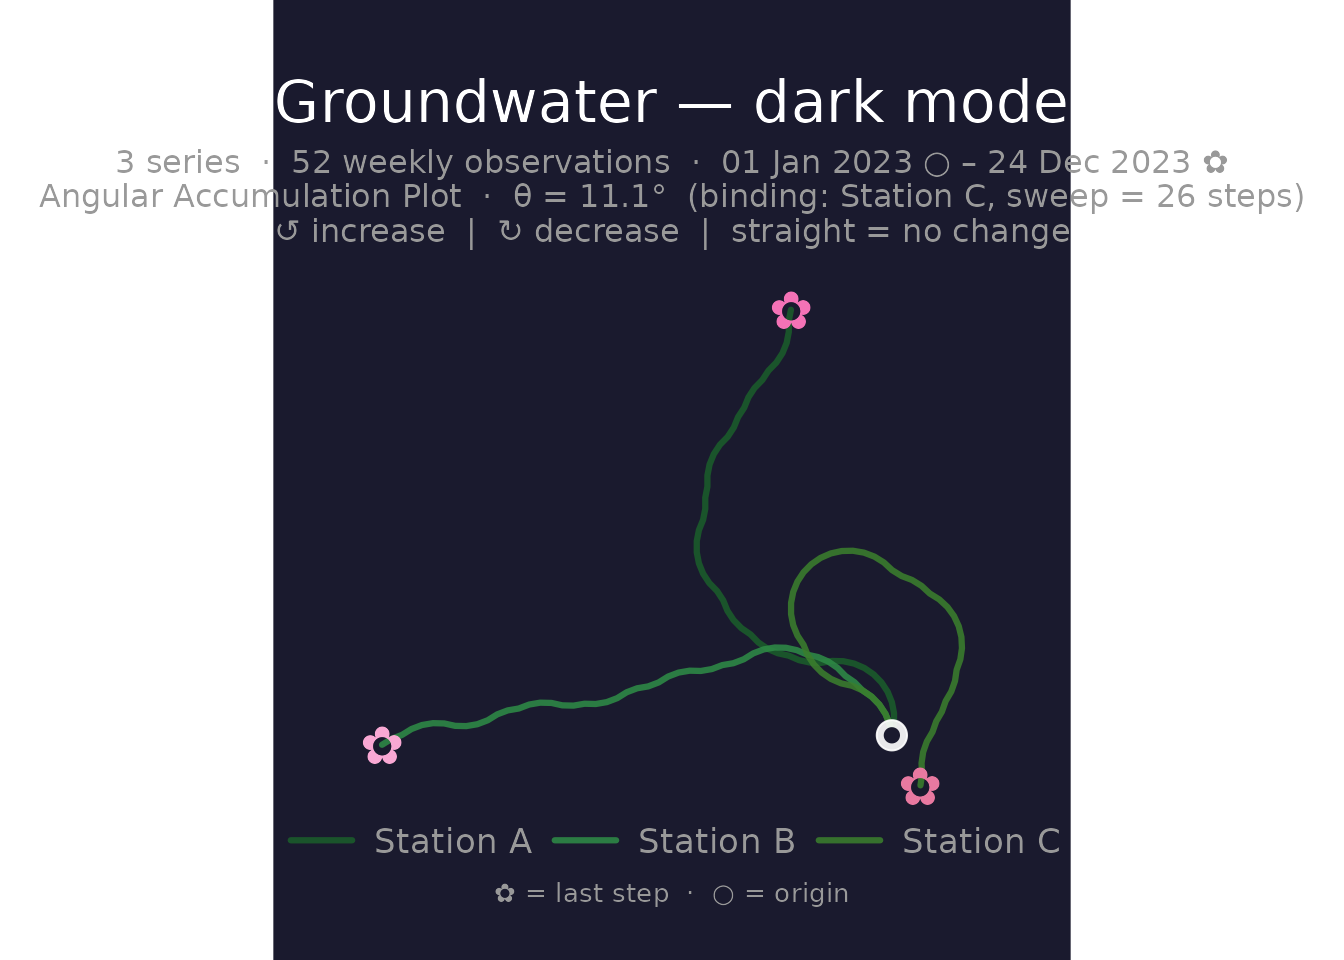
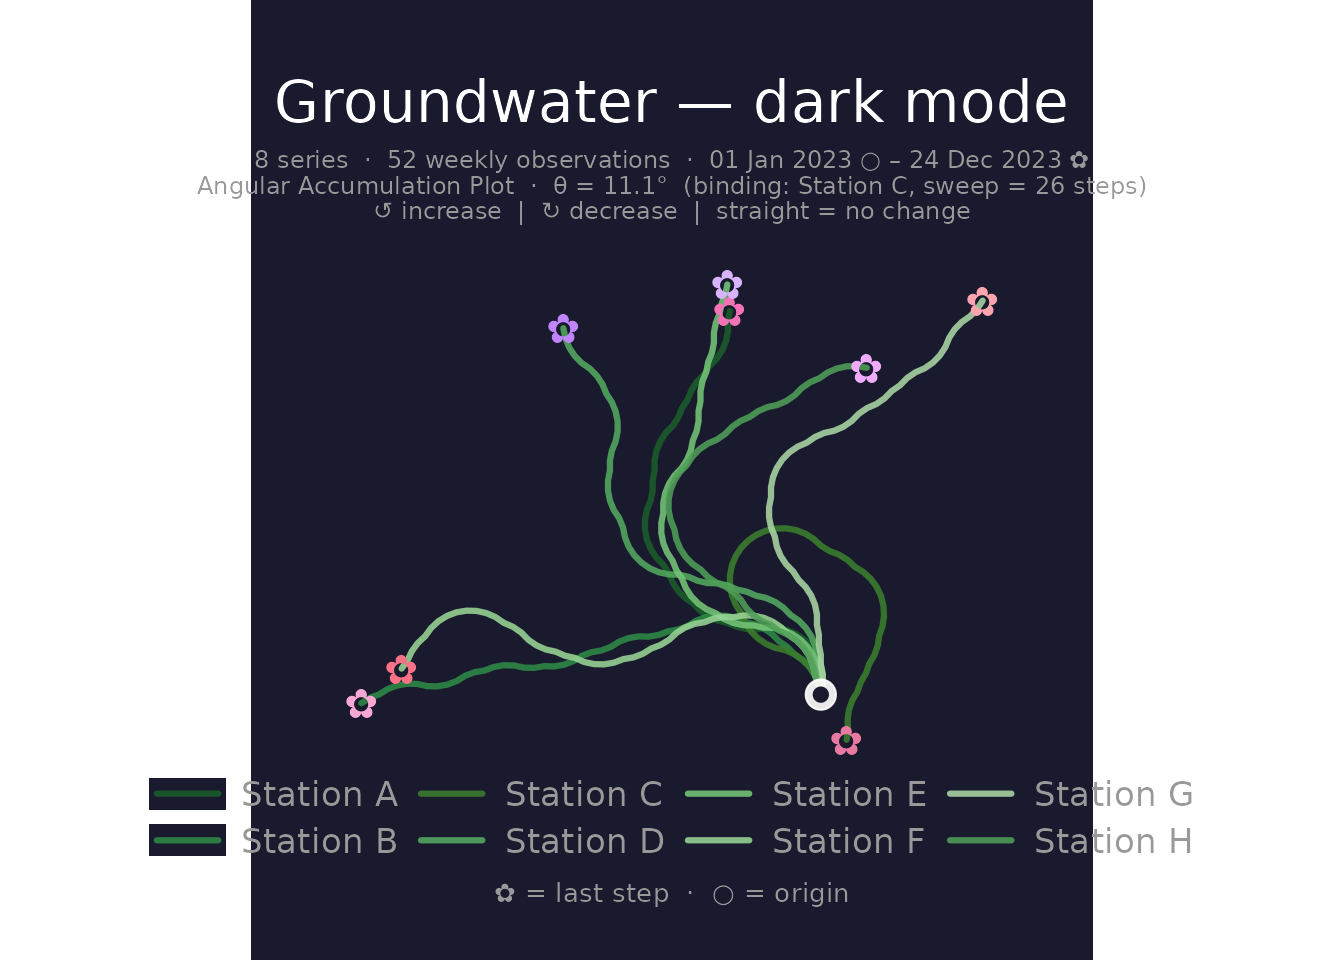
Deploying to gh-pages from @ MxNl/bouquets@2229dc61eb4a704fa66caaeef70edfd98b09cd7e 🚀

diff --git a/articles/bouquets.html b/articles/bouquets.html
@@ -88,13 +88,19 @@ values. The technique is structurally related to DNA walk visualisations
 <span><span class="va">season</span> <span class="op">&lt;-</span> <span class="fu"><a href="https://rdrr.io/r/base/Trig.html" class="external-link">sin</a></span><span class="op">(</span><span class="fu"><a href="https://rdrr.io/r/base/seq.html" class="external-link">seq</a></span><span class="op">(</span><span class="fl">0</span>, <span class="fl">2</span> <span class="op">*</span> <span class="va">pi</span>, length.out <span class="op">=</span> <span class="va">n</span><span class="op">)</span><span class="op">)</span></span>
 <span></span>
 <span><span class="va">gw_long</span> <span class="op">&lt;-</span> <span class="fu">tibble</span><span class="fu">::</span><span class="fu"><a href="https://tibble.tidyverse.org/reference/tibble.html" class="external-link">tibble</a></span><span class="op">(</span></span>
-<span>  week    <span class="op">=</span> <span class="fu"><a href="https://rdrr.io/r/base/rep.html" class="external-link">rep</a></span><span class="op">(</span><span class="va">weeks</span>, <span class="fl">3L</span><span class="op">)</span>,</span>
-<span>  station <span class="op">=</span> <span class="fu"><a href="https://rdrr.io/r/base/rep.html" class="external-link">rep</a></span><span class="op">(</span><span class="fu"><a href="https://rdrr.io/r/base/c.html" class="external-link">c</a></span><span class="op">(</span><span class="st">"Station A"</span>, <span class="st">"Station B"</span>, <span class="st">"Station C"</span><span class="op">)</span>, each <span class="op">=</span> <span class="va">n</span><span class="op">)</span>,</span>
-<span>  region  <span class="op">=</span> <span class="fu"><a href="https://rdrr.io/r/base/rep.html" class="external-link">rep</a></span><span class="op">(</span><span class="fu"><a href="https://rdrr.io/r/base/c.html" class="external-link">c</a></span><span class="op">(</span><span class="st">"North"</span>, <span class="st">"North"</span>, <span class="st">"South"</span><span class="op">)</span>, each <span class="op">=</span> <span class="va">n</span><span class="op">)</span>,</span>
+<span>  week    <span class="op">=</span> <span class="fu"><a href="https://rdrr.io/r/base/rep.html" class="external-link">rep</a></span><span class="op">(</span><span class="va">weeks</span>, <span class="fl">8L</span><span class="op">)</span>,</span>
+<span>  station <span class="op">=</span> <span class="fu"><a href="https://rdrr.io/r/base/rep.html" class="external-link">rep</a></span><span class="op">(</span><span class="fu"><a href="https://rdrr.io/r/base/paste.html" class="external-link">paste0</a></span><span class="op">(</span><span class="st">"Station "</span>, <span class="va">LETTERS</span><span class="op">[</span><span class="fl">1</span><span class="op">:</span><span class="fl">8</span><span class="op">]</span><span class="op">)</span>, each <span class="op">=</span> <span class="va">n</span><span class="op">)</span>,</span>
+<span>  region  <span class="op">=</span> <span class="fu"><a href="https://rdrr.io/r/base/rep.html" class="external-link">rep</a></span><span class="op">(</span><span class="fu"><a href="https://rdrr.io/r/base/c.html" class="external-link">c</a></span><span class="op">(</span><span class="st">"North"</span>, <span class="st">"North"</span>, <span class="st">"North"</span>, <span class="st">"North"</span>,</span>
+<span>                  <span class="st">"South"</span>, <span class="st">"South"</span>, <span class="st">"South"</span>, <span class="st">"South"</span><span class="op">)</span>, each <span class="op">=</span> <span class="va">n</span><span class="op">)</span>,</span>
 <span>  level_m <span class="op">=</span> <span class="fu"><a href="https://rdrr.io/r/base/c.html" class="external-link">c</a></span><span class="op">(</span></span>
 <span>    <span class="fl">8.5</span> <span class="op">+</span> <span class="fl">0.8</span> <span class="op">*</span> <span class="va">season</span> <span class="op">+</span> <span class="fu"><a href="https://rdrr.io/r/base/cumsum.html" class="external-link">cumsum</a></span><span class="op">(</span><span class="fu"><a href="https://rdrr.io/r/stats/Normal.html" class="external-link">rnorm</a></span><span class="op">(</span><span class="va">n</span>,  <span class="fl">0.00</span>, <span class="fl">0.18</span><span class="op">)</span><span class="op">)</span>,</span>
 <span>    <span class="fl">7.2</span> <span class="op">+</span> <span class="fl">0.5</span> <span class="op">*</span> <span class="va">season</span> <span class="op">+</span> <span class="fu"><a href="https://rdrr.io/r/base/cumsum.html" class="external-link">cumsum</a></span><span class="op">(</span><span class="fu"><a href="https://rdrr.io/r/stats/Normal.html" class="external-link">rnorm</a></span><span class="op">(</span><span class="va">n</span>,  <span class="fl">0.02</span>, <span class="fl">0.22</span><span class="op">)</span><span class="op">)</span>,</span>
-<span>    <span class="fl">9.1</span> <span class="op">+</span> <span class="fl">1.1</span> <span class="op">*</span> <span class="va">season</span> <span class="op">+</span> <span class="fu"><a href="https://rdrr.io/r/base/cumsum.html" class="external-link">cumsum</a></span><span class="op">(</span><span class="fu"><a href="https://rdrr.io/r/stats/Normal.html" class="external-link">rnorm</a></span><span class="op">(</span><span class="va">n</span>, <span class="op">-</span><span class="fl">0.01</span>, <span class="fl">0.15</span><span class="op">)</span><span class="op">)</span></span>
+<span>    <span class="fl">9.1</span> <span class="op">+</span> <span class="fl">1.1</span> <span class="op">*</span> <span class="va">season</span> <span class="op">+</span> <span class="fu"><a href="https://rdrr.io/r/base/cumsum.html" class="external-link">cumsum</a></span><span class="op">(</span><span class="fu"><a href="https://rdrr.io/r/stats/Normal.html" class="external-link">rnorm</a></span><span class="op">(</span><span class="va">n</span>, <span class="op">-</span><span class="fl">0.01</span>, <span class="fl">0.15</span><span class="op">)</span><span class="op">)</span>,</span>
+<span>    <span class="fl">6.8</span> <span class="op">+</span> <span class="fl">0.9</span> <span class="op">*</span> <span class="va">season</span> <span class="op">+</span> <span class="fu"><a href="https://rdrr.io/r/base/cumsum.html" class="external-link">cumsum</a></span><span class="op">(</span><span class="fu"><a href="https://rdrr.io/r/stats/Normal.html" class="external-link">rnorm</a></span><span class="op">(</span><span class="va">n</span>,  <span class="fl">0.01</span>, <span class="fl">0.20</span><span class="op">)</span><span class="op">)</span>,</span>
+<span>    <span class="fl">5.4</span> <span class="op">+</span> <span class="fl">1.2</span> <span class="op">*</span> <span class="va">season</span> <span class="op">+</span> <span class="fu"><a href="https://rdrr.io/r/base/cumsum.html" class="external-link">cumsum</a></span><span class="op">(</span><span class="fu"><a href="https://rdrr.io/r/stats/Normal.html" class="external-link">rnorm</a></span><span class="op">(</span><span class="va">n</span>, <span class="op">-</span><span class="fl">0.02</span>, <span class="fl">0.17</span><span class="op">)</span><span class="op">)</span>,</span>
+<span>    <span class="fl">7.7</span> <span class="op">+</span> <span class="fl">0.6</span> <span class="op">*</span> <span class="va">season</span> <span class="op">+</span> <span class="fu"><a href="https://rdrr.io/r/base/cumsum.html" class="external-link">cumsum</a></span><span class="op">(</span><span class="fu"><a href="https://rdrr.io/r/stats/Normal.html" class="external-link">rnorm</a></span><span class="op">(</span><span class="va">n</span>,  <span class="fl">0.00</span>, <span class="fl">0.21</span><span class="op">)</span><span class="op">)</span>,</span>
+<span>    <span class="fl">8.9</span> <span class="op">+</span> <span class="fl">0.7</span> <span class="op">*</span> <span class="va">season</span> <span class="op">+</span> <span class="fu"><a href="https://rdrr.io/r/base/cumsum.html" class="external-link">cumsum</a></span><span class="op">(</span><span class="fu"><a href="https://rdrr.io/r/stats/Normal.html" class="external-link">rnorm</a></span><span class="op">(</span><span class="va">n</span>,  <span class="fl">0.01</span>, <span class="fl">0.19</span><span class="op">)</span><span class="op">)</span>,</span>
+<span>    <span class="fl">6.2</span> <span class="op">+</span> <span class="fl">1.0</span> <span class="op">*</span> <span class="va">season</span> <span class="op">+</span> <span class="fu"><a href="https://rdrr.io/r/base/cumsum.html" class="external-link">cumsum</a></span><span class="op">(</span><span class="fu"><a href="https://rdrr.io/r/stats/Normal.html" class="external-link">rnorm</a></span><span class="op">(</span><span class="va">n</span>, <span class="op">-</span><span class="fl">0.01</span>, <span class="fl">0.16</span><span class="op">)</span><span class="op">)</span></span>
 <span>  <span class="op">)</span></span>
 <span><span class="op">)</span></span>
 <span></span>
@@ -156,7 +162,8 @@ palettes:</p>
 <span>  value_col     <span class="op">=</span> <span class="va">level_m</span>,</span>
 <span>  stem_colors   <span class="op">=</span> <span class="fu"><a href="https://rdrr.io/r/base/c.html" class="external-link">c</a></span><span class="op">(</span><span class="st">"#c0392b"</span>, <span class="st">"#2980b9"</span>, <span class="st">"#27ae60"</span><span class="op">)</span>,</span>
 <span>  verbose       <span class="op">=</span> <span class="cn">FALSE</span></span>
-<span><span class="op">)</span></span></code></pre></div>
+<span><span class="op">)</span></span>
+<span><span class="co">#&gt; Warning: Fewer `stem_colors` supplied than series; recycling.</span></span></code></pre></div>
 <p><img src="bouquets_files/figure-html/vector-1.png" class="r-plt" alt="" width="672" style="display: block; margin: auto;"></p>
 </div>
 <div class="section level3">
@@ -455,10 +462,10 @@ installed.</p>
 <p>Coordinates in WGS84 decimal degrees work directly. For projected
 coordinates supply the EPSG code via <code>coord_crs</code>:</p>
 <div class="sourceCode" id="cb16"><pre class="downlit sourceCode r">
-<code class="sourceCode R"><span><span class="co"># Example with decimal-degree coordinates</span></span>
+<code class="sourceCode R"><span><span class="co"># Stations spread across Germany north to south, coast to border</span></span>
 <span><span class="va">gw_coords</span> <span class="op">&lt;-</span> <span class="fu">dplyr</span><span class="fu">::</span><span class="fu"><a href="https://dplyr.tidyverse.org/reference/mutate.html" class="external-link">mutate</a></span><span class="op">(</span><span class="va">gw_long</span>,</span>
-<span>  lon <span class="op">=</span> <span class="fu"><a href="https://rdrr.io/r/base/c.html" class="external-link">c</a></span><span class="op">(</span><span class="fu"><a href="https://rdrr.io/r/base/rep.html" class="external-link">rep</a></span><span class="op">(</span><span class="fl">9.9</span>, <span class="va">n</span><span class="op">)</span>, <span class="fu"><a href="https://rdrr.io/r/base/rep.html" class="external-link">rep</a></span><span class="op">(</span><span class="fl">13.4</span>, <span class="va">n</span><span class="op">)</span>, <span class="fu"><a href="https://rdrr.io/r/base/rep.html" class="external-link">rep</a></span><span class="op">(</span><span class="fl">8.7</span>, <span class="va">n</span><span class="op">)</span><span class="op">)</span>,</span>
-<span>  lat <span class="op">=</span> <span class="fu"><a href="https://rdrr.io/r/base/c.html" class="external-link">c</a></span><span class="op">(</span><span class="fu"><a href="https://rdrr.io/r/base/rep.html" class="external-link">rep</a></span><span class="op">(</span><span class="fl">51.5</span>, <span class="va">n</span><span class="op">)</span>, <span class="fu"><a href="https://rdrr.io/r/base/rep.html" class="external-link">rep</a></span><span class="op">(</span><span class="fl">52.5</span>, <span class="va">n</span><span class="op">)</span>, <span class="fu"><a href="https://rdrr.io/r/base/rep.html" class="external-link">rep</a></span><span class="op">(</span><span class="fl">50.1</span>, <span class="va">n</span><span class="op">)</span><span class="op">)</span></span>
+<span>  lon <span class="op">=</span> <span class="fu"><a href="https://rdrr.io/r/base/rep.html" class="external-link">rep</a></span><span class="op">(</span><span class="fu"><a href="https://rdrr.io/r/base/c.html" class="external-link">c</a></span><span class="op">(</span><span class="fl">6.9</span>, <span class="fl">13.4</span>, <span class="fl">9.9</span>, <span class="fl">12.1</span>, <span class="fl">7.5</span>, <span class="fl">11.2</span>, <span class="fl">8.7</span>, <span class="fl">14.8</span><span class="op">)</span>, each <span class="op">=</span> <span class="va">n</span><span class="op">)</span>,</span>
+<span>  lat <span class="op">=</span> <span class="fu"><a href="https://rdrr.io/r/base/rep.html" class="external-link">rep</a></span><span class="op">(</span><span class="fu"><a href="https://rdrr.io/r/base/c.html" class="external-link">c</a></span><span class="op">(</span><span class="fl">53.6</span>, <span class="fl">52.5</span>, <span class="fl">51.5</span>, <span class="fl">48.1</span>, <span class="fl">51.2</span>, <span class="fl">49.8</span>, <span class="fl">47.8</span>, <span class="fl">50.9</span><span class="op">)</span>, each <span class="op">=</span> <span class="va">n</span><span class="op">)</span></span>
 <span><span class="op">)</span></span>
 <span></span>
 <span><span class="fu"><a href="../reference/make_plot_bouquet.html">make_plot_bouquet</a></span><span class="op">(</span><span class="va">gw_coords</span>,</span>

diff --git a/articles/bouquets.md b/articles/bouquets.md
@@ -24,13 +24,19 @@ weeks  <- seq(as.Date("2023-01-01"), by = "week", length.out = n)
 season <- sin(seq(0, 2 * pi, length.out = n))
 
 gw_long <- tibble::tibble(
-  week    = rep(weeks, 3L),
-  station = rep(c("Station A", "Station B", "Station C"), each = n),
-  region  = rep(c("North", "North", "South"), each = n),
+  week    = rep(weeks, 8L),
+  station = rep(paste0("Station ", LETTERS[1:8]), each = n),
+  region  = rep(c("North", "North", "North", "North",
+                  "South", "South", "South", "South"), each = n),
   level_m = c(
     8.5 + 0.8 * season + cumsum(rnorm(n,  0.00, 0.18)),
     7.2 + 0.5 * season + cumsum(rnorm(n,  0.02, 0.22)),
-    9.1 + 1.1 * season + cumsum(rnorm(n, -0.01, 0.15))
+    9.1 + 1.1 * season + cumsum(rnorm(n, -0.01, 0.15)),
+    6.8 + 0.9 * season + cumsum(rnorm(n,  0.01, 0.20)),
+    5.4 + 1.2 * season + cumsum(rnorm(n, -0.02, 0.17)),
+    7.7 + 0.6 * season + cumsum(rnorm(n,  0.00, 0.21)),
+    8.9 + 0.7 * season + cumsum(rnorm(n,  0.01, 0.19)),
+    6.2 + 1.0 * season + cumsum(rnorm(n, -0.01, 0.16))
   )
 )
 
@@ -97,6 +103,7 @@ make_plot_bouquet(gw_long,
   stem_colors   = c("#c0392b", "#2980b9", "#27ae60"),
   verbose       = FALSE
 )
+#> Warning: Fewer `stem_colors` supplied than series; recycling.
 ```
 
 ![](bouquets_files/figure-html/vector-1.png)
@@ -389,10 +396,10 @@ Coordinates in WGS84 decimal degrees work directly. For projected
 coordinates supply the EPSG code via `coord_crs`:
 
 ``` r
-# Example with decimal-degree coordinates
+# Stations spread across Germany north to south, coast to border
 gw_coords <- dplyr::mutate(gw_long,
-  lon = c(rep(9.9, n), rep(13.4, n), rep(8.7, n)),
-  lat = c(rep(51.5, n), rep(52.5, n), rep(50.1, n))
+  lon = rep(c(6.9, 13.4, 9.9, 12.1, 7.5, 11.2, 8.7, 14.8), each = n),
+  lat = rep(c(53.6, 52.5, 51.5, 48.1, 51.2, 49.8, 47.8, 50.9), each = n)
 )
 
 make_plot_bouquet(gw_coords,
